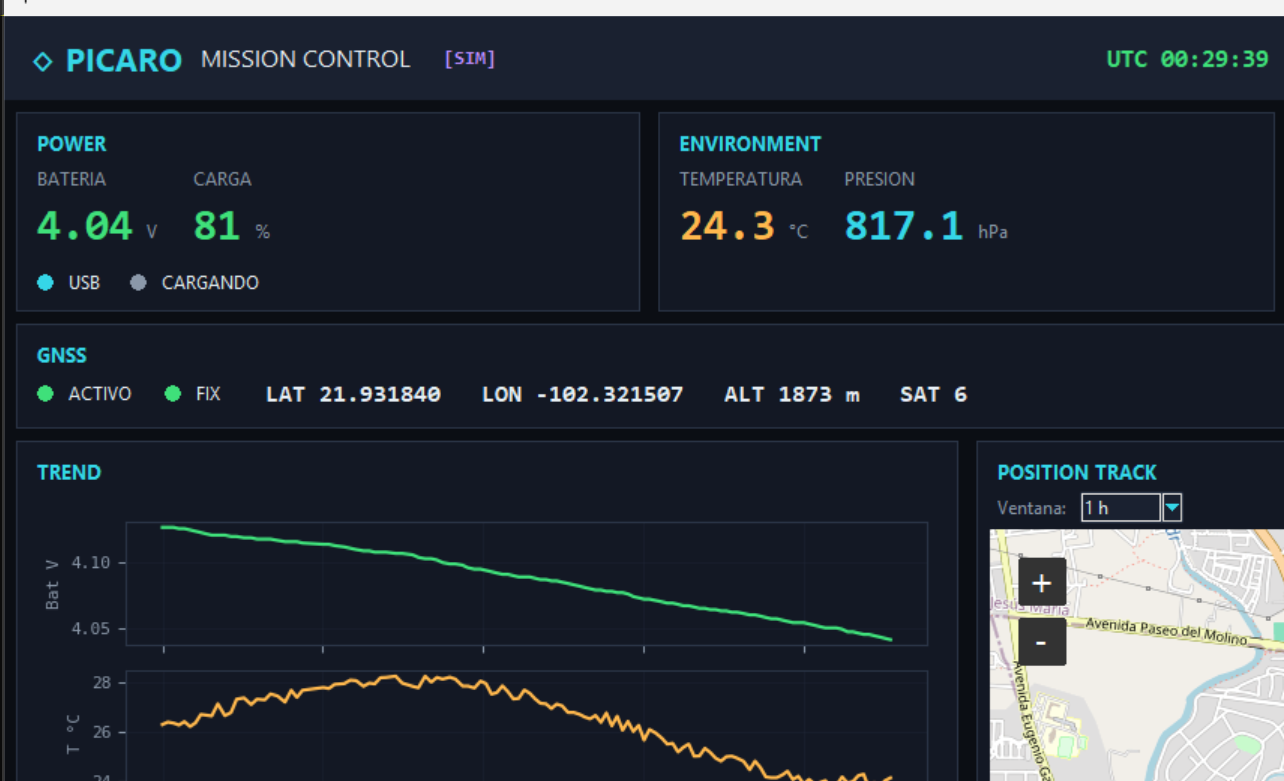
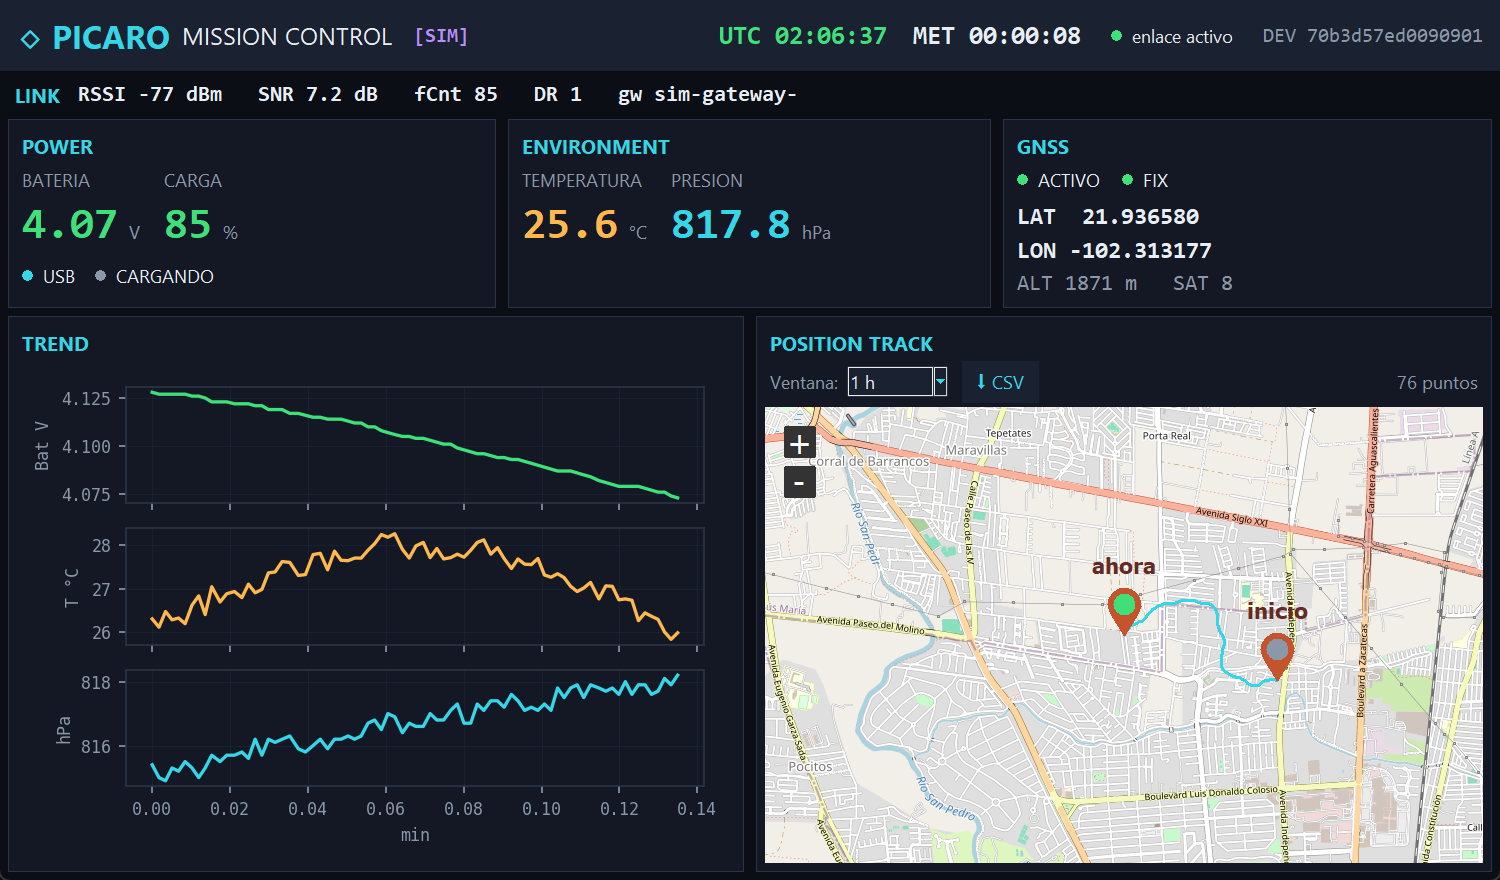
ej.10: redistribuye la GUI (3 columnas arriba, Trend|Map 50/50) + export CSV
- Parte superior en tres columnas: Power | Environment | GNSS (antes GNSS iba
  en una barra aparte; las metricas de enlace pasan a una franja fina "LINK").
- Trend y Position Track a mitad de pantalla cada uno (dos columnas 50/50).
- Boton "descargar CSV" junto al filtro de tiempo: exporta todos los registros
  de la ventana seleccionada con TODOS los campos (23 columnas de telemetry).
- Fix: columnconfigure con tupla no aplica pesos en Tk 8.6 -> se configura 1x1.
- Screenshot del layout nuevo (captura DPI-aware).

diff --git a/specs/exercises/10_dashboard-tkinter/dashboard.py b/specs/exercises/10_dashboard-tkinter/dashboard.py
@@ -4,6 +4,7 @@ dashboard.py  -  PICARO Mission Control (dashboard tkinter estilo NASA).
 Consume la telemetria del Ejercicio 09 (que llega a ChirpStack), la guarda en
 SQLite local y la muestra con paneles, graficas de tendencia, un mapa real con
 el track de posiciones (filtro de tiempo + decimado) y un log de eventos.
+Ademas exporta a CSV (todos los campos) los datos de la ventana de tiempo.
 
 Fuentes de datos (config o --mode):
   mqtt    en vivo desde ChirpStack por MQTT   (necesita gateway + placa emitiendo)
@@ -16,16 +17,17 @@ Uso:
   py -3 dashboard.py --mode mqtt
 """
 import argparse
+import csv
 import json
 import os
 import queue
 import time
 import tkinter as tk
 from datetime import datetime, timezone
-from tkinter import ttk
+from tkinter import ttk, filedialog, messagebox
 
 import theme as T
-from storage import TelemetryStore, decimate
+from storage import TelemetryStore, decimate, FIELDS
 from mqtt_ingest import MqttIngest
 from replay import SimIngest, ReplayIngest
 
@@ -97,16 +99,16 @@ class Dashboard:
 
         root.title("PICARO · Mission Control")
         root.configure(bg=T.BG)
-        root.geometry("1300x820")
-        root.minsize(1060, 720)
+        root.geometry("1180x800")
+        root.minsize(1040, 700)
         T.apply_ttk(root)
         T.apply_matplotlib()
 
         self._build_topbar()
+        self._build_linkstrip()
         body = tk.Frame(root, bg=T.BG); body.pack(fill="both", expand=True, padx=8, pady=(0, 8))
-        self._build_panels(body)
-        self._build_gnss(body)
-        self._build_middle(body)
+        self._build_panels(body)     # 3 columnas: Power | Environment | GNSS
+        self._build_middle(body)     # Trend | Position Track (50/50, area principal)
         self._build_log(body)
 
         self._start_ingest()
@@ -127,7 +129,6 @@ class Dashboard:
         bar.pack(fill="x", side="top")
         tk.Label(bar, text="◇ PICARO", bg=T.PANEL2, fg=T.CYAN, font=(T.SANS, 16, "bold")).pack(side="left", padx=(14, 6), pady=10)
         tk.Label(bar, text="MISSION CONTROL", bg=T.PANEL2, fg=T.TEXT, font=(T.SANS, 12)).pack(side="left", pady=10)
-
         self.mode_lbl = tk.Label(bar, text="", bg=T.PANEL2, fg=T.VIOLET, font=(T.MONO, 10, "bold"))
         self.mode_lbl.pack(side="left", padx=16)
 
@@ -139,51 +140,57 @@ class Dashboard:
         self.clock_lbl = tk.Label(bar, text="UTC --:--:--", bg=T.PANEL2, fg=T.GREEN, font=T.F_CLOCK)
         self.clock_lbl.pack(side="right", padx=6)
 
+    def _build_linkstrip(self):
+        """Franja fina con las metricas de enlace (antes panel 'Link')."""
+        strip = tk.Frame(self.root, bg=T.BG)
+        strip.pack(fill="x", padx=10, pady=(6, 0))
+        tk.Label(strip, text="LINK", bg=T.BG, fg=T.CYAN, font=T.F_SECTION).pack(side="left", padx=(2, 12))
+        self.link_lbl = tk.Label(strip, text="RSSI --   SNR --   fCnt --   DR --   gw --",
+                                 bg=T.BG, fg=T.TEXT, font=(T.MONO, 11, "bold"))
+        self.link_lbl.pack(side="left")
+
     def _build_panels(self, parent):
         row = tk.Frame(parent, bg=T.BG); row.pack(fill="x", pady=(8, 0))
-        row.columnconfigure((0, 1, 2), weight=1, uniform="p")
+        # Tk 8.6 no acepta columnconfigure con tupla -> configurar 1 por 1.
+        for _c in (0, 1, 2):
+            row.columnconfigure(_c, weight=1, uniform="p")
 
-        # POWER
+        # --- POWER ---
         outer, p = self._panel(row, "POWER"); outer.grid(row=0, column=0, sticky="nsew", padx=(0, 6))
         grid = tk.Frame(p, bg=T.PANEL); grid.pack(fill="x", padx=10, pady=(0, 8))
         self.t_batt_v = Tile(grid, "BATERIA", "V", T.GREEN); self.t_batt_v.frame.grid(row=0, column=0, sticky="w", padx=(0, 18))
         self.t_batt_p = Tile(grid, "CARGA", "%", T.GREEN); self.t_batt_p.frame.grid(row=0, column=1, sticky="w")
-        pw = tk.Frame(p, bg=T.PANEL); pw.pack(fill="x", padx=10, pady=(0, 8))
+        pw = tk.Frame(p, bg=T.PANEL); pw.pack(fill="x", padx=10, pady=(0, 12))
         self.led_usb = StatusLED(pw, "USB"); self.led_usb.frame.pack(side="left", padx=(0, 14))
         self.led_chg = StatusLED(pw, "CARGANDO"); self.led_chg.frame.pack(side="left")
 
-        # ENVIRONMENT
+        # --- ENVIRONMENT ---
         outer, e = self._panel(row, "ENVIRONMENT"); outer.grid(row=0, column=1, sticky="nsew", padx=6)
-        grid = tk.Frame(e, bg=T.PANEL); grid.pack(fill="x", padx=10, pady=(0, 16))
+        grid = tk.Frame(e, bg=T.PANEL); grid.pack(fill="x", padx=10, pady=(0, 20))
         self.t_temp = Tile(grid, "TEMPERATURA", "°C", T.AMBER); self.t_temp.frame.grid(row=0, column=0, sticky="w", padx=(0, 18))
         self.t_press = Tile(grid, "PRESION", "hPa", T.CYAN); self.t_press.frame.grid(row=0, column=1, sticky="w")
 
-        # LINK
-        outer, l = self._panel(row, "UPLINK / LINK"); outer.grid(row=0, column=2, sticky="nsew", padx=(6, 0))
-        grid = tk.Frame(l, bg=T.PANEL); grid.pack(fill="x", padx=10, pady=(0, 4))
-        self.t_rssi = Tile(grid, "RSSI", "dBm", T.CYAN); self.t_rssi.frame.grid(row=0, column=0, sticky="w", padx=(0, 18))
-        self.t_snr = Tile(grid, "SNR", "dB", T.CYAN); self.t_snr.frame.grid(row=0, column=1, sticky="w")
-        self.lk_lbl = tk.Label(l, text="fCnt --   DR --   gw --", bg=T.PANEL, fg=T.MUTED, font=T.F_MONO)
-        self.lk_lbl.pack(anchor="w", padx=10, pady=(0, 8))
-
-    def _build_gnss(self, parent):
-        outer, g = self._panel(parent, "GNSS"); outer.pack(fill="x", pady=8)
-        rowf = tk.Frame(g, bg=T.PANEL); rowf.pack(fill="x", padx=10, pady=(0, 10))
-        self.led_gps_act = StatusLED(rowf, "ACTIVO"); self.led_gps_act.frame.pack(side="left", padx=(0, 16))
-        self.led_gps_fix = StatusLED(rowf, "FIX"); self.led_gps_fix.frame.pack(side="left", padx=(0, 24))
-        self.gnss_lbl = tk.Label(rowf, text="LAT --   LON --   ALT --   SAT --",
-                                 bg=T.PANEL, fg=T.TEXT, font=(T.MONO, 12, "bold"))
-        self.gnss_lbl.pack(side="left")
+        # --- GNSS ---
+        outer, g = self._panel(row, "GNSS"); outer.grid(row=0, column=2, sticky="nsew", padx=(6, 0))
+        leds = tk.Frame(g, bg=T.PANEL); leds.pack(fill="x", padx=10, pady=(0, 4))
+        self.led_gps_act = StatusLED(leds, "ACTIVO"); self.led_gps_act.frame.pack(side="left", padx=(0, 16))
+        self.led_gps_fix = StatusLED(leds, "FIX"); self.led_gps_fix.frame.pack(side="left")
+        self.g_lat = tk.Label(g, text="LAT   --", bg=T.PANEL, fg=T.TEXT, font=(T.MONO, 12, "bold"))
+        self.g_lat.pack(anchor="w", padx=10)
+        self.g_lon = tk.Label(g, text="LON   --", bg=T.PANEL, fg=T.TEXT, font=(T.MONO, 12, "bold"))
+        self.g_lon.pack(anchor="w", padx=10)
+        self.g_sat = tk.Label(g, text="ALT -- m   SAT --", bg=T.PANEL, fg=T.MUTED, font=(T.MONO, 11))
+        self.g_sat.pack(anchor="w", padx=10, pady=(0, 8))
 
     def _build_middle(self, parent):
-        mid = tk.Frame(parent, bg=T.BG); mid.pack(fill="both", expand=True)
+        mid = tk.Frame(parent, bg=T.BG); mid.pack(fill="both", expand=True, pady=(8, 0))
         mid.columnconfigure(0, weight=1, uniform="m")
         mid.columnconfigure(1, weight=1, uniform="m")
         mid.rowconfigure(0, weight=1)
 
-        # Graficas
+        # --- TREND (mitad izquierda) ---
         outer, pl = self._panel(mid, "TREND"); outer.grid(row=0, column=0, sticky="nsew", padx=(0, 6))
-        self._fig = Figure(figsize=(4.6, 3.4), dpi=100)
+        self._fig = Figure(figsize=(4.6, 3.6), dpi=100)
         axes = self._fig.subplots(3, 1, sharex=True)
         self._plot_axes = [
             (axes[0], "battery_v", T.GREEN, "Bat V"),
@@ -193,7 +200,7 @@ class Dashboard:
         self._canvas = FigureCanvasTkAgg(self._fig, master=pl)
         self._canvas.get_tk_widget().pack(fill="both", expand=True, padx=8, pady=8)
 
-        # Mapa + filtro
+        # --- POSITION TRACK (mitad derecha) ---
         outer, mp = self._panel(mid, "POSITION TRACK"); outer.grid(row=0, column=1, sticky="nsew", padx=(6, 0))
         ctl = tk.Frame(mp, bg=T.PANEL); ctl.pack(fill="x", padx=10, pady=(0, 4))
         tk.Label(ctl, text="Ventana:", bg=T.PANEL, fg=T.MUTED, font=T.F_LABEL).pack(side="left")
@@ -202,6 +209,9 @@ class Dashboard:
                           values=[w[0] for w in WINDOWS])
         cb.pack(side="left", padx=6)
         cb.bind("<<ComboboxSelected>>", lambda e: self._refresh_view(force_map=True))
+        tk.Button(ctl, text="⬇ CSV", command=self._export_csv, font=T.F_LABEL,
+                  bg=T.PANEL2, fg=T.CYAN, activebackground=T.BORDER, activeforeground=T.TEXT,
+                  relief="flat", bd=0, padx=10, pady=2, cursor="hand2").pack(side="left", padx=8)
         self.trk_lbl = tk.Label(ctl, text="0 puntos", bg=T.PANEL, fg=T.MUTED, font=T.F_LABEL)
         self.trk_lbl.pack(side="right")
 
@@ -217,15 +227,15 @@ class Dashboard:
                      bg=T.PANEL, fg=T.AMBER, font=T.F_MONO).pack(expand=True)
 
     def _build_log(self, parent):
-        outer, lg = self._panel(parent, "EVENT LOG"); outer.pack(fill="both", expand=False, pady=(8, 0))
+        outer, lg = self._panel(parent, "EVENT LOG"); outer.pack(fill="x", pady=(8, 0))
         cols = ("utc", "fcnt", "temp", "press", "batt", "rssi", "snr", "gps")
         heads = ("UTC", "fCnt", "T°C", "hPa", "Bat%", "RSSI", "SNR", "GPS")
         widths = (150, 60, 70, 80, 60, 70, 60, 90)
-        self.tree = ttk.Treeview(lg, columns=cols, show="headings", height=7)
+        self.tree = ttk.Treeview(lg, columns=cols, show="headings", height=6)
         for c, h, w in zip(cols, heads, widths):
             self.tree.heading(c, text=h)
             self.tree.column(c, width=w, anchor="center")
-        self.tree.pack(fill="both", expand=True, padx=8, pady=8)
+        self.tree.pack(fill="x", padx=8, pady=8)
 
     # ---------------- Ingesta ----------------
     def _on_record(self, rec):      # llamado desde el hilo de ingesta
@@ -269,7 +279,7 @@ class Dashboard:
             self._append_log(rec)
             n += 1
         if n:
-            self._map_refresh_due = 0   # hay datos nuevos -> refrescar vista pronto
+            self._map_refresh_due = 0
         self.root.after(150, self._poll)
 
     def _tick(self):
@@ -289,7 +299,6 @@ class Dashboard:
         else:
             self.conn.set(T.RED if self._last else T.MUTED, (msg or "sin datos")[:26])
 
-        # refresco de graficas/mapa cada ~3 s
         if time.time() >= self._map_refresh_due:
             self._refresh_view()
             self._map_refresh_due = time.time() + 3
@@ -298,27 +307,35 @@ class Dashboard:
     # ---------------- Actualizacion ----------------
     def _update_panels(self, r):
         self.dev_lbl.config(text=f"DEV {(r.get('dev_eui') or '--')}")
+        # LINK (franja)
+        rssi = r.get("rssi"); snr = r.get("snr")
+        self.link_lbl.config(text="RSSI {}   SNR {}   fCnt {}   DR {}   gw {}".format(
+            f"{rssi} dBm" if rssi is not None else "--",
+            f"{snr:.1f} dB" if snr is not None else "--",
+            r.get("f_cnt", "--"), r.get("dr", "--"), (r.get("gateway_id") or "--")[:12]))
+        # POWER
         self.t_batt_v.set(_fmt(r.get("battery_v"), "{:.2f}"))
         bp = r.get("battery_pct")
         self.t_batt_p.set("--" if bp is None else str(bp),
                           T.GREEN if (bp or 0) >= 40 else T.AMBER if (bp or 0) >= 15 else T.RED)
         self.led_usb.set(T.CYAN if r.get("usb_powered") else T.MUTED)
         self.led_chg.set(T.GREEN if r.get("charging") else T.MUTED)
+        # ENVIRONMENT
         self.t_temp.set(_fmt(r.get("temperature_c"), "{:.1f}"))
         self.t_press.set(_fmt(r.get("pressure_hpa"), "{:.1f}"))
-        self.t_rssi.set(_fmt(r.get("rssi"), "{:d}") if r.get("rssi") is not None else "--")
-        self.t_snr.set(_fmt(r.get("snr"), "{:.1f}"))
-        self.lk_lbl.config(text=f"fCnt {r.get('f_cnt','--')}   DR {r.get('dr','--')}   "
-                                f"gw {(r.get('gateway_id') or '--')[:10]}")
+        # GNSS
         self.led_gps_act.set(T.GREEN if r.get("gps_active") else T.RED,
                              "ACTIVO" if r.get("gps_active") else "APAGADO")
         self.led_gps_fix.set(T.GREEN if r.get("gps_fix") else T.AMBER,
                              "FIX" if r.get("gps_fix") else "SIN FIX")
-        if r.get("gps_fix"):
-            self.gnss_lbl.config(text=f"LAT {r.get('latitude'):.6f}   LON {r.get('longitude'):.6f}   "
-                                      f"ALT {_fmt(r.get('altitude_m'),'{:.0f}')} m   SAT {r.get('satellites','--')}")
+        if r.get("gps_fix") and r.get("latitude") is not None:
+            self.g_lat.config(text=f"LAT  {r['latitude']:.6f}")
+            self.g_lon.config(text=f"LON {r['longitude']:.6f}")
+            self.g_sat.config(text=f"ALT {_fmt(r.get('altitude_m'),'{:.0f}')} m   SAT {r.get('satellites','--')}")
         else:
-            self.gnss_lbl.config(text=f"-- sin fix --    SAT {r.get('satellites','--')}")
+            self.g_lat.config(text="LAT   -- (sin fix)")
+            self.g_lon.config(text="LON   --")
+            self.g_sat.config(text=f"ALT -- m   SAT {r.get('satellites','--')}")
 
     def _append_log(self, r):
         vals = (r.get("iso", "")[-8:], r.get("f_cnt", ""),
@@ -377,6 +394,35 @@ class Dashboard:
         self.map.set_marker(latlon[0][0], latlon[0][1], text="inicio", marker_color_circle=T.MUTED)
         self.map.set_marker(latlon[-1][0], latlon[-1][1], text="ahora", marker_color_circle=T.GREEN)
         self.map.set_position(latlon[-1][0], latlon[-1][1])
+
+    # ---------------- Export CSV ----------------
+    def _export_csv(self):
+        """Exporta a CSV TODOS los campos de los registros dentro de la ventana
+        de tiempo seleccionada en Position Track."""
+        secs = self._window_seconds()
+        since = 0 if secs is None else (time.time() - secs)
+        rows = self.store.records_since(since)
+        if not rows:
+            messagebox.showinfo("Exportar CSV", "No hay datos en la ventana seleccionada.")
+            return
+        win = self.win_var.get().replace(" ", "")
+        default = f"picaro_telemetry_{win}_{datetime.now().strftime('%Y%m%d_%H%M%S')}.csv"
+        path = filedialog.asksaveasfilename(
+            defaultextension=".csv", initialfile=default,
+            filetypes=[("CSV", "*.csv"), ("Todos", "*.*")],
+            title="Guardar telemetria filtrada (todos los campos)")
+        if not path:
+            return
+        try:
+            with open(path, "w", newline="", encoding="utf-8") as f:
+                w = csv.DictWriter(f, fieldnames=FIELDS, extrasaction="ignore")
+                w.writeheader()
+                for r in rows:
+                    w.writerow({k: r.get(k) for k in FIELDS})
+            messagebox.showinfo("Exportar CSV",
+                                f"Guardadas {len(rows)} filas (ventana {self.win_var.get()}).\n{path}")
+        except Exception as e:
+            messagebox.showerror("Exportar CSV", str(e))
 
     def _on_close(self):
         try:

diff --git a/specs/exercises/10_dashboard-tkinter/storage.py b/specs/exercises/10_dashboard-tkinter/storage.py
@@ -98,6 +98,12 @@ class TelemetryStore:
             "SELECT * FROM telemetry ORDER BY ts ASC").fetchall()
         return [dict(r) for r in rows]
 
+    def records_since(self, since_ts):
+        """Todos los registros (todas las columnas) desde since_ts, para exportar."""
+        rows = self._conn.execute(
+            "SELECT * FROM telemetry WHERE ts>=? ORDER BY ts ASC", (since_ts,)).fetchall()
+        return [dict(r) for r in rows]
+
     def close(self):
         try:
             self._conn.close()

diff --git a/specs/exercises/10_dashboard-tkinter/README.md b/specs/exercises/10_dashboard-tkinter/README.md
@@ -3,8 +3,11 @@
 > **En una frase:** un **dashboard de escritorio** (Python + **tkinter**) estilo **control de misión de
 > la NASA** que **consume la telemetría del [Ejercicio 09](../09_radiosonda_picaro_full/)** desde
 > ChirpStack, la **guarda en SQLite** local y la muestra en paneles, gráficas de tendencia, un **mapa
-> real con el track de posiciones** (filtro de tiempo) y un log de eventos.
+> real con el track de posiciones** (filtro de tiempo) y un log de eventos, con **exportación a CSV**.
 > **Plataforma:** Python 3.x en Windows/Linux/macOS. **Sin hardware:** trae **modo simulador**.
+
+**Distribución:** arriba tres columnas **Power · Environment · GNSS**; en medio **Trend** y **Position
+Track** a mitad de pantalla cada una; abajo el **log**. Junto al filtro de tiempo hay un botón **⬇ CSV**.
 
 ## 🎯 Qué vas a conseguir
 
@@ -63,6 +66,11 @@ temporal, con marcadores de **inicio** y **posición actual**. El selector **Ven
 > **Ventana recomendada: 1 h** (~120 puntos a 30 s/uplink) — claro y fluido. Para evitar saturar, el
 > track se **decima automáticamente** a **~500 puntos** máx. (p. ej. 24 h → 1 punto cada ~3 min),
 > conservando siempre la posición actual. Así el mapa responde con cualquier ventana.
+
+### ⬇ Exportar a CSV
+El botón **⬇ CSV** (junto al selector de ventana) exporta a un archivo `.csv` **todos los registros de
+la ventana de tiempo seleccionada** con **todos los campos capturados** (las 23 columnas de la tabla
+`telemetry`, incluido `raw_json`). Útil para análisis en Excel/pandas.
 
 ## 🗃️ Base de datos (SQLite)
 Cada uplink se guarda en la tabla `telemetry` (una "caja negra" del lado consumidor): `ts, iso,